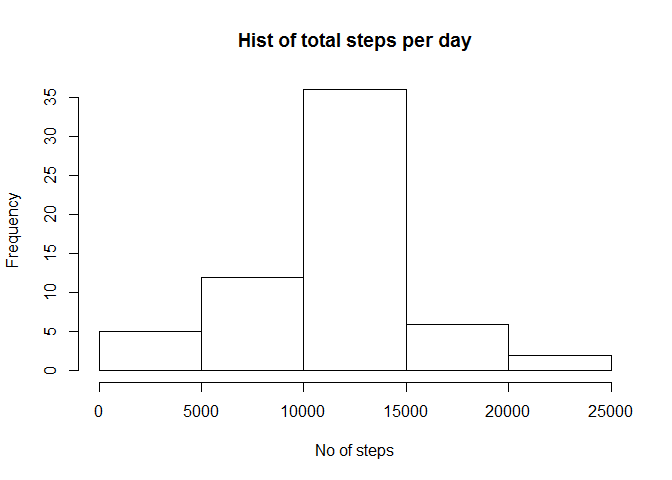
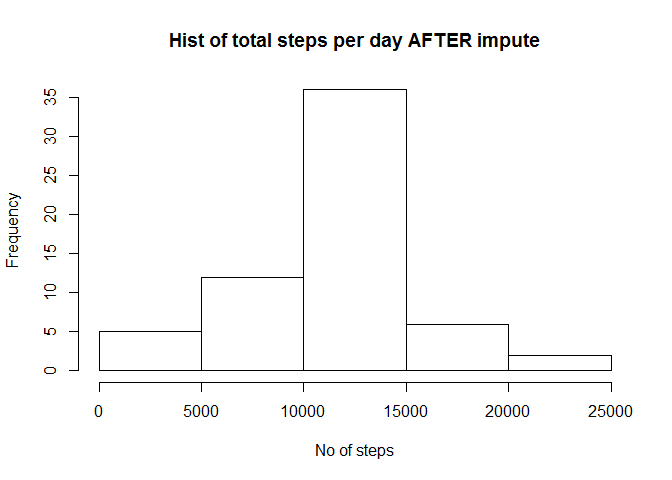
2nd attempt

Changed region(s): [[0.25, 0.0625, 0.8125, 0.125]]

diff --git a/PA1_template.html b/PA1_template.html
@@ -148,8 +148,8 @@ head(totalStepsPerDay)</code></pre>
 ##  2012-10-06: 1   3rd Qu.:13294  
 ##  2012-10-07: 1   Max.   :21194  
 ##  (Other)   :47</code></pre>
-<pre class="r"><code>hist(totalStepsPerDay$steps, main=&quot;Hist of total steps per day&quot;, xlab=&quot;No of steps&quot;)</code></pre>
[1 lines of base64/hex data omitted]
+<pre class="r"><code>hist(totalStepsPerDay$steps, main=&quot;Hist of total steps per day omitting NA&quot;, xlab=&quot;No of steps&quot;)</code></pre>
[1 lines of base64/hex data omitted]
 <p>The mean total steps per day is</p>
 <pre class="r"><code>mean(totalStepsPerDay$steps)</code></pre>
 <pre><code>## [1] 10766.19</code></pre>
@@ -255,8 +255,8 @@ head(totalStepsPerDay)</code></pre>
 ##  2012-10-05: 1   3rd Qu.:12811  
 ##  2012-10-06: 1   Max.   :21194  
 ##  (Other)   :55</code></pre>
-<pre class="r"><code>hist(totalStepsPerDay$steps, main=&quot;Hist of total steps per day&quot;, xlab=&quot;No of steps&quot;)</code></pre>
[1 lines of base64/hex data omitted]
+<pre class="r"><code>hist(totalStepsPerDay$steps, main=&quot;Hist of total steps per day AFTER impute&quot;, xlab=&quot;No of steps&quot;)</code></pre>
[1 lines of base64/hex data omitted]
 <p>The mean total steps per day is</p>
 <pre class="r"><code>mean(totalStepsPerDay$steps)</code></pre>
 <pre><code>## [1] 10766.19</code></pre>
@@ -292,10 +292,10 @@ head(df4)</code></pre>
 ## 17568 37.3826 2012-11-30     2355           Friday</code></pre>
 <pre class="r"><code>df5 &lt;- df4 %&gt;% filter(weekdayOrWeekend !=&quot;Saturday&quot; &amp; weekdayOrWeekend != &quot;Sunday&quot;)
 
-totalStepsPerInterval &lt;- df5 %&gt;% group_by(interval) %&gt;% summarize_each(funs(sum(steps))) %&gt;% select(interval,steps)
+totalStepsPerIntervalWeekdays &lt;- df5 %&gt;% group_by(interval) %&gt;% summarize_each(funs(sum(steps))) %&gt;% select(interval,steps)
 
 
-head(totalStepsPerInterval)</code></pre>
+head(totalStepsPerIntervalWeekdays)</code></pre>
 <pre><code>## Source: local data frame [6 x 2]
 ## 
 ##   interval    steps
@@ -306,7 +306,7 @@ head(totalStepsPerInterval)</code></pre>
 ## 4       15 232.2956
 ## 5       20 228.2956
 ## 6       25 283.2956</code></pre>
-<pre class="r"><code>tail(totalStepsPerInterval)</code></pre>
+<pre class="r"><code>tail(totalStepsPerIntervalWeekdays)</code></pre>
 <pre><code>## Source: local data frame [6 x 2]
 ## 
 ##   interval    steps
@@ -317,7 +317,7 @@ head(totalStepsPerInterval)</code></pre>
 ## 4     2345 232.2956
 ## 5     2350 236.2956
 ## 6     2355 281.2956</code></pre>
-<pre class="r"><code>summary(totalStepsPerInterval)</code></pre>
+<pre class="r"><code>summary(totalStepsPerIntervalWeekdays)</code></pre>
 <pre><code>##     interval          steps       
 ##  Min.   :   0.0   Min.   : 224.3  
 ##  1st Qu.: 588.8   1st Qu.: 310.8  
@@ -325,8 +325,6 @@ head(totalStepsPerInterval)</code></pre>
 ##  Mean   :1177.5   Mean   :1602.5  
 ##  3rd Qu.:1766.2   3rd Qu.:2247.3  
 ##  Max.   :2355.0   Max.   :9354.3</code></pre>
-<pre class="r"><code>plot(totalStepsPerInterval,type=&quot;l&quot;,main=&quot;5 min time series  weekdays&quot;, ylab=&quot;Average steps&quot;, xlab=&quot;5 min intervals &quot;)</code></pre>
[1 lines of base64/hex data omitted]
 </div>
 <div id="weekends" class="section level3">
 <h3>Weekends</h3>
@@ -350,10 +348,10 @@ head(df4)</code></pre>
 ## 17568 37.3826 2012-11-30     2355           Friday</code></pre>
 <pre class="r"><code>df5 &lt;- df4 %&gt;% filter(weekdayOrWeekend ==&quot;Saturday&quot; | weekdayOrWeekend == &quot;Sunday&quot;)
 
-totalStepsPerInterval &lt;- df5 %&gt;% group_by(interval) %&gt;% summarize_each(funs(sum(steps))) %&gt;% select(interval,steps)
+totalStepsPerIntervalWeekends &lt;- df5 %&gt;% group_by(interval) %&gt;% summarize_each(funs(sum(steps))) %&gt;% select(interval,steps)
 
 
-head(totalStepsPerInterval)</code></pre>
+head(totalStepsPerIntervalWeekends)</code></pre>
 <pre><code>## Source: local data frame [6 x 2]
 ## 
 ##   interval    steps
@@ -364,7 +362,7 @@ head(totalStepsPerInterval)</code></pre>
 ## 4       15  74.7652
 ## 5       20  74.7652
 ## 6       25 126.7652</code></pre>
-<pre class="r"><code>tail(totalStepsPerInterval)</code></pre>
+<pre class="r"><code>tail(totalStepsPerIntervalWeekends)</code></pre>
 <pre><code>## Source: local data frame [6 x 2]
 ## 
 ##   interval    steps
@@ -375,7 +373,7 @@ head(totalStepsPerInterval)</code></pre>
 ## 4     2345 100.7652
 ## 5     2350  74.7652
 ## 6     2355  74.7652</code></pre>
-<pre class="r"><code>summary(totalStepsPerInterval)</code></pre>
+<pre class="r"><code>summary(totalStepsPerIntervalWeekends)</code></pre>
 <pre><code>##     interval          steps        
 ##  Min.   :   0.0   Min.   :  74.77  
 ##  1st Qu.: 588.8   1st Qu.:  90.27  
@@ -383,8 +381,15 @@ head(totalStepsPerInterval)</code></pre>
 ##  Mean   :1177.5   Mean   : 677.86  
 ##  3rd Qu.:1766.2   3rd Qu.:1132.77  
 ##  Max.   :2355.0   Max.   :2524.77</code></pre>
-<pre class="r"><code>plot(totalStepsPerInterval,type=&quot;l&quot;,main=&quot;5 min time series  weekends&quot;, ylab=&quot;Average steps&quot;, xlab=&quot;5 min intervals &quot;)</code></pre>
[1 lines of base64/hex data omitted]
+</div>
+<div id="plot-panel" class="section level3">
+<h3>Plot panel</h3>
+<pre class="r"><code>par(mfrow=c(2,1)) 
+
+plot(totalStepsPerIntervalWeekdays,type=&quot;l&quot;,main=&quot;5 min time series  weekdays&quot;, ylab=&quot;Average steps&quot;, xlab=&quot;5 min intervals &quot;)
+
+plot(totalStepsPerIntervalWeekends,type=&quot;l&quot;,main=&quot;5 min time series  weekends&quot;, ylab=&quot;Average steps&quot;, xlab=&quot;5 min intervals &quot;)</code></pre>
[1 lines of base64/hex data omitted]
 </div>
 </div>
 

diff --git a/PA1_template.md b/PA1_template.md
@@ -129,7 +129,7 @@ summary(totalStepsPerDay)
 ```
 
 ```r
-hist(totalStepsPerDay$steps, main="Hist of total steps per day", xlab="No of steps")
+hist(totalStepsPerDay$steps, main="Hist of total steps per day omitting NA", xlab="No of steps")
 ```
 
 ![](PA1_template_files/figure-html/unnamed-chunk-2-1.png) 
@@ -334,7 +334,7 @@ summary(totalStepsPerDay)
 ```
 
 ```r
-hist(totalStepsPerDay$steps, main="Hist of total steps per day", xlab="No of steps")
+hist(totalStepsPerDay$steps, main="Hist of total steps per day AFTER impute", xlab="No of steps")
 ```
 
 ![](PA1_template_files/figure-html/unnamed-chunk-9-1.png) 
@@ -399,10 +399,10 @@ tail(df4)
 ```r
 df5 <- df4 %>% filter(weekdayOrWeekend !="Saturday" & weekdayOrWeekend != "Sunday")
 
-totalStepsPerInterval <- df5 %>% group_by(interval) %>% summarize_each(funs(sum(steps))) %>% select(interval,steps)
+totalStepsPerIntervalWeekdays <- df5 %>% group_by(interval) %>% summarize_each(funs(sum(steps))) %>% select(interval,steps)
 
 
-head(totalStepsPerInterval)
+head(totalStepsPerIntervalWeekdays)
 ```
 
 ```
@@ -419,7 +419,7 @@ head(totalStepsPerInterval)
 ```
 
 ```r
-tail(totalStepsPerInterval)
+tail(totalStepsPerIntervalWeekdays)
 ```
 
 ```
@@ -436,7 +436,7 @@ tail(totalStepsPerInterval)
 ```
 
 ```r
-summary(totalStepsPerInterval)
+summary(totalStepsPerIntervalWeekdays)
 ```
 
 ```
@@ -448,12 +448,6 @@ summary(totalStepsPerInterval)
 ##  3rd Qu.:1766.2   3rd Qu.:2247.3  
 ##  Max.   :2355.0   Max.   :9354.3
 ```
-
-```r
-plot(totalStepsPerInterval,type="l",main="5 min time series  weekdays", ylab="Average steps", xlab="5 min intervals ")
-```
-
-![](PA1_template_files/figure-html/unnamed-chunk-12-1.png) 
 
 ###Weekends
 
@@ -490,10 +484,10 @@ tail(df4)
 ```r
 df5 <- df4 %>% filter(weekdayOrWeekend =="Saturday" | weekdayOrWeekend == "Sunday")
 
-totalStepsPerInterval <- df5 %>% group_by(interval) %>% summarize_each(funs(sum(steps))) %>% select(interval,steps)
+totalStepsPerIntervalWeekends <- df5 %>% group_by(interval) %>% summarize_each(funs(sum(steps))) %>% select(interval,steps)
 
 
-head(totalStepsPerInterval)
+head(totalStepsPerIntervalWeekends)
 ```
 
 ```
@@ -510,7 +504,7 @@ head(totalStepsPerInterval)
 ```
 
 ```r
-tail(totalStepsPerInterval)
+tail(totalStepsPerIntervalWeekends)
 ```
 
 ```
@@ -527,7 +521,7 @@ tail(totalStepsPerInterval)
 ```
 
 ```r
-summary(totalStepsPerInterval)
+summary(totalStepsPerIntervalWeekends)
 ```
 
 ```
@@ -540,8 +534,14 @@ summary(totalStepsPerInterval)
 ##  Max.   :2355.0   Max.   :2524.77
 ```
 
+###Plot panel
+
 ```r
-plot(totalStepsPerInterval,type="l",main="5 min time series  weekends", ylab="Average steps", xlab="5 min intervals ")
+par(mfrow=c(2,1)) 
+
+plot(totalStepsPerIntervalWeekdays,type="l",main="5 min time series  weekdays", ylab="Average steps", xlab="5 min intervals ")
+
+plot(totalStepsPerIntervalWeekends,type="l",main="5 min time series  weekends", ylab="Average steps", xlab="5 min intervals ")
 ```
 
-![](PA1_template_files/figure-html/unnamed-chunk-13-1.png) 
+![](PA1_template_files/figure-html/unnamed-chunk-14-1.png) 
